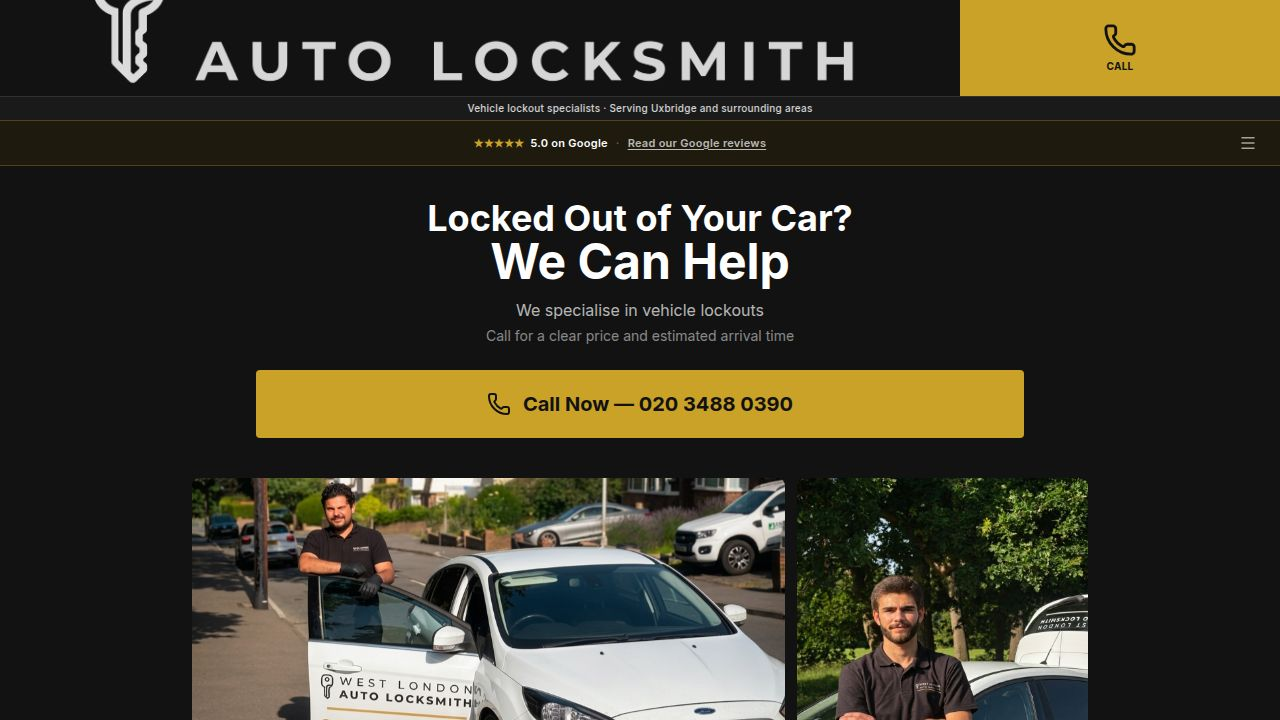
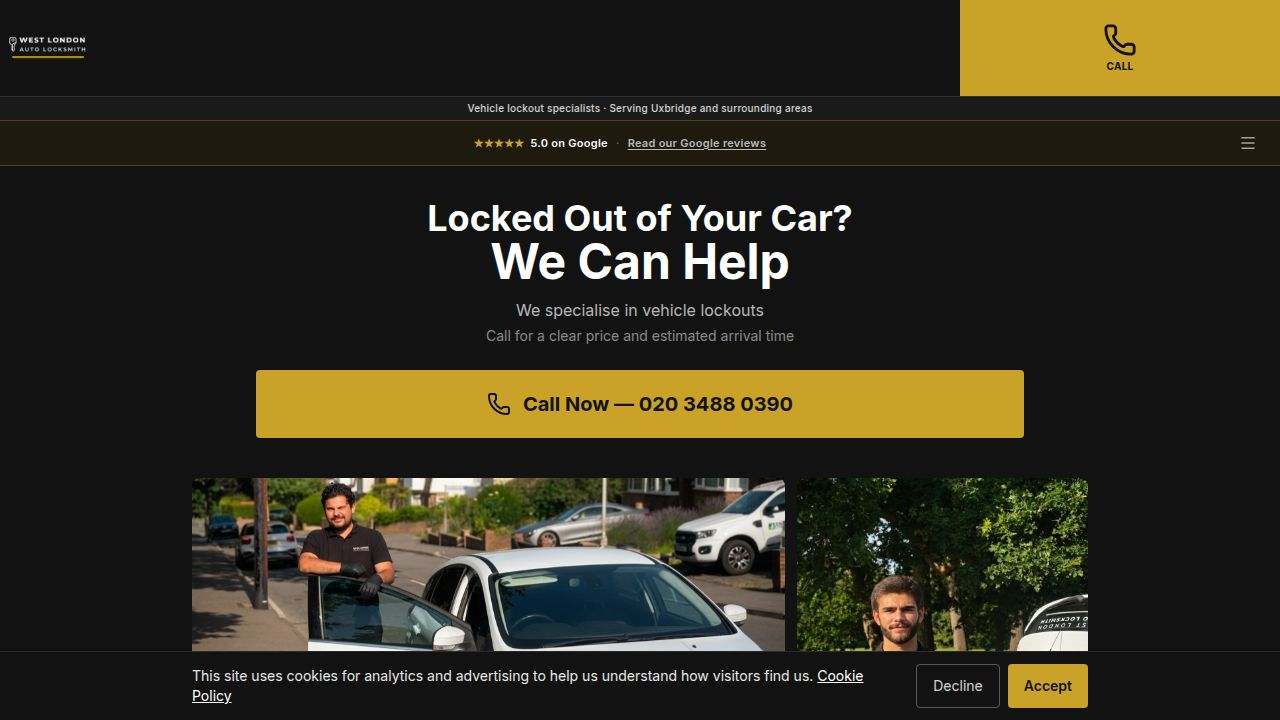
Add visual feedback for desktop call buttons
Implement a fallback mechanism for desktop users clicking "Call Now" buttons. This copies the business phone number to their clipboard and displays a confirmation toast, ensuring a better user experience on devices where `tel:` links don't automatically open a dialer.

Replit-Commit-Author: Agent
Replit-Commit-Session-Id: 81d25133-3734-4bf7-8e63-47f33e3e728f
Replit-Commit-Checkpoint-Type: full_checkpoint
Replit-Commit-Event-Id: aadc6fdd-69a4-49f0-9b26-05e7ad37c9ec
Replit-Commit-Screenshot-Url: https://storage.googleapis.com/screenshot-production-us-central1/f3ba9780-f0d5-4f40-bf63-2f3ffe0f2fa0/81d25133-3734-4bf7-8e63-47f33e3e728f/1tqLzTB
Replit-Helium-Checkpoint-Created: true

Changed region(s): [[0.125, 0.8861, 0.875, 1.0], [0.1562, 0.0306, 0.6875, 0.1222], [0.0, 0.0, 0.125, 0.1222]]

diff --git a/artifacts/west-london-auto-locksmith/src/lib/analytics.ts b/artifacts/west-london-auto-locksmith/src/lib/analytics.ts
@@ -1,4 +1,55 @@
 import { siteContent } from "../content/siteContent";
+import { toast } from "@/hooks/use-toast";
+
+const hasPhone = siteContent.business.phone !== "PHONE_NUMBER_PLACEHOLDER";
+
+// Laptops/desktops usually have no app registered to handle `tel:` links, so the
+// click appears to do nothing. Identify phones/tablets (which DO have a dialer)
+// and skip the fallback for them so the mobile experience is unchanged.
+// Prefer the UA "mobile" hint (reliable, and unaffected by touch emulation);
+// fall back to the coarse-pointer media query for browsers without UA-CH.
+function isLikelyDesktop(): boolean {
+  if (typeof window === "undefined") return false;
+  const uaMobile = (navigator as any)?.userAgentData?.mobile;
+  if (typeof uaMobile === "boolean") return !uaMobile;
+  if (!window.matchMedia) return false;
+  return !window.matchMedia("(pointer: coarse)").matches;
+}
+
+// On desktop only: copy the number to the clipboard and surface it in a toast so
+// the visitor can dial from their phone. Never runs on mobile, so the native
+// dialer experience is unchanged. Does not block the `tel:` link in any way.
+function offerDesktopCallFallback() {
+  if (!hasPhone || !isLikelyDesktop()) return;
+
+  const number = siteContent.business.phone;
+
+  const dialPrompt = () =>
+    toast({
+      title: `Call ${number}`,
+      description:
+        "Dial this number from your phone to reach us. If your computer has a calling app linked, it will open automatically.",
+      duration: 8000,
+    });
+
+  if (typeof navigator !== "undefined" && navigator.clipboard?.writeText) {
+    try {
+      navigator.clipboard.writeText(number).then(
+        () =>
+          toast({
+            title: "Phone number copied",
+            description: `Call ${number} — we've copied it to your clipboard so you can dial it from your phone.`,
+            duration: 8000,
+          }),
+        dialPrompt,
+      );
+    } catch {
+      dialPrompt();
+    }
+  } else {
+    dialPrompt();
+  }
+}
 
 export function trackEvent(eventName: string, params?: Record<string, string | number>) {
   if (typeof window === "undefined") return;
@@ -29,4 +80,5 @@ export function trackCallClick(source: string) {
   trackEvent("call_click", { source });
   trackEvent(`call_click_${source}`);
   reportCallConversion();
+  offerDesktopCallFallback();
 }

diff --git a/.agents/memory/wlal-site.md b/.agents/memory/wlal-site.md
@@ -40,6 +40,12 @@ Click-to-call conversion: `reportCallConversion()` fires the Google Ads conversi
 
 CookieConsent banner shows when `gaId` OR `gadsId` is set (informational only — it does not actually gate gtag firing; true consent-gating / Google Consent Mode is a future task). GA4 (`gaId`, a `G-` id) is not yet configured.
 
+## Desktop call fallback
+
+`trackCallClick()` also calls `offerDesktopCallFallback()`: on non-mobile devices it copies the phone number to the clipboard and shows a shadcn toast ("Phone number copied", or fallback "Call <number>" if clipboard write is blocked, e.g. in an iframe). **Why:** `tel:` links do nothing on laptops with no dialer app, so the click appeared dead. Mobile is untouched (the dialer still opens). It never preventDefaults the link.
+
+Device detection (`isLikelyDesktop()`) MUST use `navigator.userAgentData.mobile` first (then fall back to `matchMedia("(pointer: coarse)")`). **Why:** the Playwright test harness runs with touch emulation, so BOTH `(hover: hover) and (pointer: fine)` and `(pointer: coarse)` misreport the device as mobile and the fallback never fires under test. The UA `mobile` hint is UA-based, unaffected by touch emulation — correct on real laptops AND testable. Do NOT revert to pointer/hover-only detection.
+
 ## Conditional sections
 
 ReviewsList, JobGallery, WhatsApp button, legal details block, trust block — all check siteContent data before rendering. They render nothing if data is absent. This is intentional — no empty/placeholder sections.